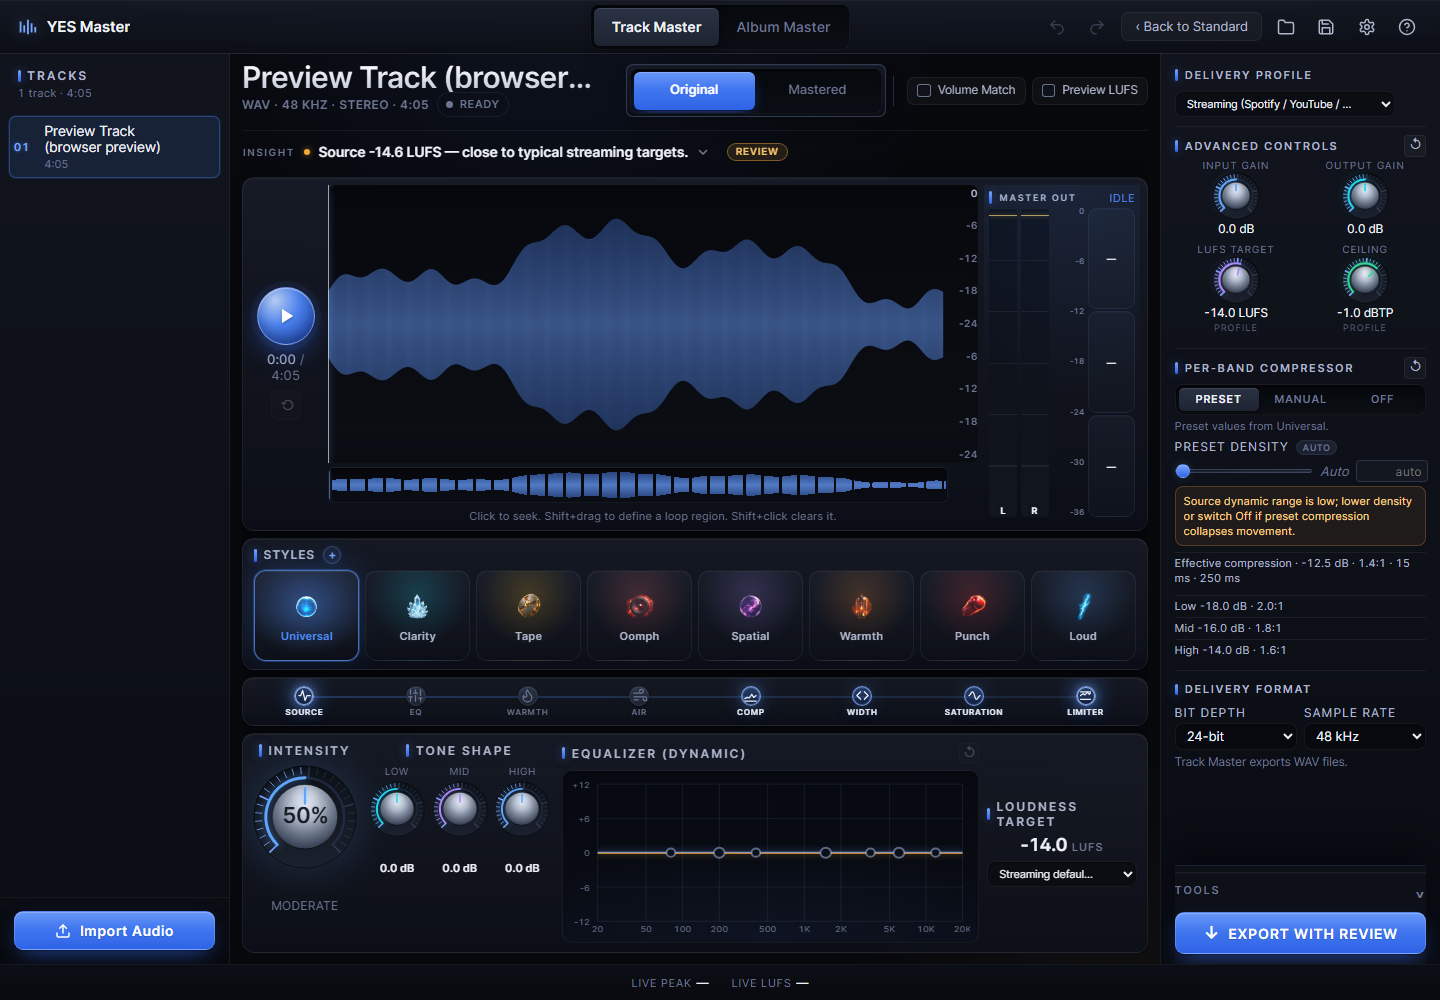
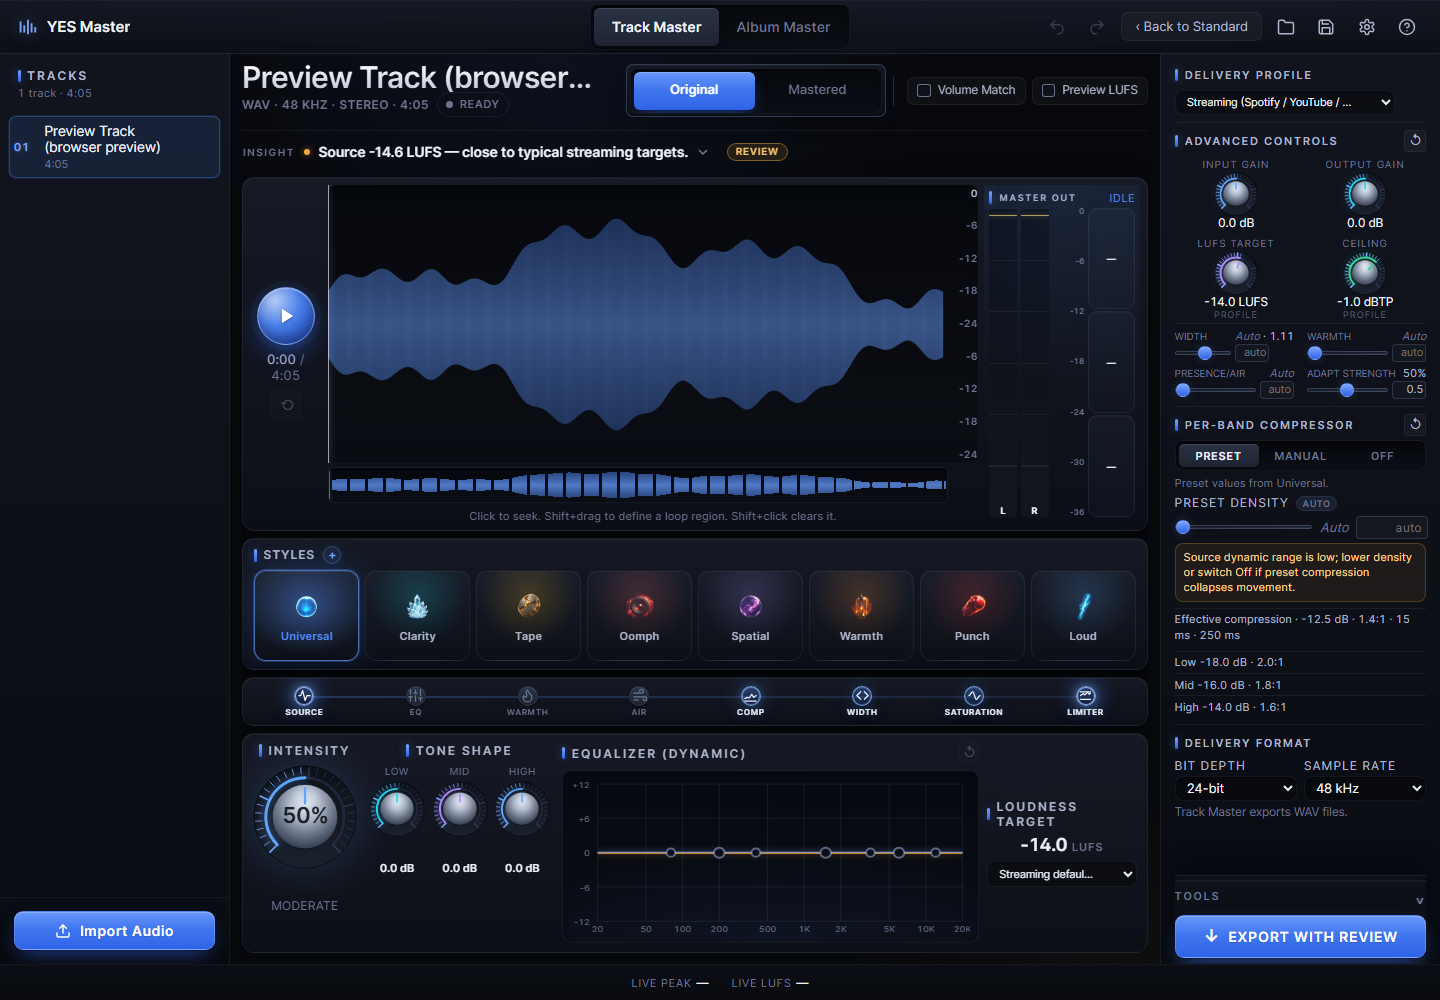
fix(rail): sliders were hidden by a stale details rule; feel controls re-laid so the full rail fits 1440x900
A leftover '.rail-card-advanced:not([open]) .advanced-grid { display:none }'
(from the old <details>) hid Width/Warmth/Presence/Adapt once the section
became static — and the previous 'no scrollbar' measurement was taken with
them hidden. Removed. Feel controls now set as two rows per field (label ·
value / slider · box) in the 2x2, knob envelopes and section rhythm
tightened, redundant Manual note dropped, tail rule order fixed. Measured
at Advanced + Manual: 1440x900 scrollHeight == clientHeight with all four
sliders visible; 1920x1080 likewise; 1366x768 (min-spec) still scrolls.

Changed region(s): [[0.8125, 0.093, 1.0, 0.837], [0.8125, 0.868, 1.0, 0.961]]

diff --git a/src/App.css b/src/App.css
@@ -5114,17 +5114,6 @@ button.primary:disabled {
     box-shadow: 0 -16px 28px rgba(5, 8, 14, 0.92);
   }
 
-  .rail-card-advanced:not([open]) {
-    padding-bottom: 0.45rem;
-  }
-
-  .rail-card-advanced:not([open]) .panel-head {
-    margin-bottom: 0;
-  }
-
-  .rail-card-advanced:not([open]) .advanced-grid {
-    display: none;
-  }
 }
 
 @media (min-width: 1700px) and (min-height: 960px) {
@@ -7849,19 +7838,72 @@ details.rail-section > summary.rail-section-head:hover .panel-title { color: var
 .rail-format-grid .adv-select { padding: 0.24rem 0.45rem; font-size: 0.8rem; }
 .rail-card-format .format-note { margin-top: 0.3rem; }
 
-/* Tools + export */
-.right-rail-export-group { padding: 0.35rem 0 0.6rem; gap: 0.3rem; }
-.right-rail-tools > summary { padding: 0.4rem 0 0.25rem; }
-.right-rail-export { padding: 0.68rem 1rem; }
-
-/* Narrow rail (≤1400px → 280px): the feel-control rows would otherwise
-   wrap their slider/value/field onto extra lines and double the section. */
-@media (max-width: 1400px) {
-  .rail-card-advanced .adv-control { grid-template-columns: 1fr auto; }
-  .rail-card-advanced .adv-control .adv-number { grid-column: 2; }
-  .rail-card-advanced .adv-control input[type="range"] { grid-column: 1 / -1; grid-row: 2; }
-  .rail-card-advanced .adv-control .adv-value { grid-column: 1; grid-row: 1; text-align: left; }
+/* Feel controls: two rows per field — [label · value · box] over [slider].
+   The label used to sit on its own line above the value row (three rows).
+   Same controls, same ranges; the row is what got tighter. */
+.rail-card-advanced .advanced-grid .adv-field {
+  display: grid;
+  grid-template-columns: minmax(0, 1fr) auto;
+  grid-template-areas:
+    "label value"
+    "slider box";
+  align-items: center;
+  column-gap: 0.25rem;
+  row-gap: 0.05rem;
 }
+.rail-card-advanced .advanced-grid .adv-label {
+  grid-area: label;
+  display: inline-flex;
+  align-items: center;
+  gap: 0.25rem;
+  min-width: 0;
+  white-space: nowrap;
+  /* The label may run into the value column's empty space (the value is
+     end-aligned and short); the number box below is what sizes that column,
+     so clipping the label to it would truncate PRESENCE/AIR. */
+  overflow: visible;
+  font-size: 0.6rem;
+  letter-spacing: 0.02em;
+}
+.rail-card-advanced .advanced-grid .adv-control .adv-value { justify-self: end; }
+.rail-card-advanced .advanced-grid .adv-control .adv-value { font-size: 0.66rem; }
+.rail-card-advanced .advanced-grid .adv-control { display: contents; }
+.rail-card-advanced .advanced-grid .adv-control .adv-value { grid-area: value; white-space: nowrap; font-size: 0.7rem; }
+.rail-card-advanced .advanced-grid .adv-control .adv-number { grid-area: box; width: 2.15rem; padding: 0.1rem 0.15rem; font-size: 0.66rem; }
+.rail-card-advanced .advanced-grid .adv-control input[type="range"] { grid-area: slider; height: 18px; }
+/* The Auto pill / ↺ AUTO chip live inside the label; keep them from
+   pushing the label text out. */
+.rail-card-advanced .advanced-grid .adv-auto-pill,
+.rail-card-advanced .advanced-grid .adv-auto-reset { flex-shrink: 0; }
+
+/* Rail knobs a touch smaller in the rail. */
+.adv-knob-grid .knob-vis,
+.compressor-knob-grid .knob-vis { transform: scale(0.8); margin: -0.4rem auto -0.44rem; }
+.adv-knob-grid .knob-caption { margin-top: -0.12rem; }
+
+/* Final density (1440x900, Advanced open + Manual): section rhythm and the
+   redundant Manual note. */
+.rail-section { padding: 0.42rem 0 0.46rem; }
+.rail-section-head { margin-bottom: 0.26rem; }
+.rail-card-per-band.is-mode-manual .compressor-mode-note { display: none; }
+.rail-card-per-band.is-mode-manual .compressor-mode-tabs { margin-bottom: 0.32rem; }
+.rail-card-format .format-note { margin-top: 0.22rem; }
+/* Knob label/value line boxes were carrying ~4px of slack each. */
+.adv-knob-grid .knob-label,
+.compressor-knob-grid .knob-label,
+.adv-knob-grid .knob-value,
+.compressor-knob-grid .knob-value,
+.adv-knob-grid .knob-caption { line-height: 1.15; }
+.rail-card-advanced .adaptive-block:empty { display: none; }
+.rail-card-advanced .adaptive-block { padding-top: 0; }
+.rail-card-delivery .loudness-profile-select { padding-top: 0.24rem; padding-bottom: 0.24rem; }
+.adv-knob-grid { margin-bottom: 0.1rem; }
+.rail-format-grid .adv-select { padding-top: 0.2rem; padding-bottom: 0.2rem; }
+
+/* Tools + export */
+.right-rail-export-group { padding: 0.2rem 0 0.4rem; gap: 0.25rem; }
+.right-rail-tools > summary { padding: 0.25rem 0 0.15rem; }
+.right-rail-export { padding: 0.62rem 1rem; }
 
 .source-insight-toggle.is-static { cursor: default; }
 .source-insight-toggle.is-static:hover { background: transparent; border-color: transparent; }
